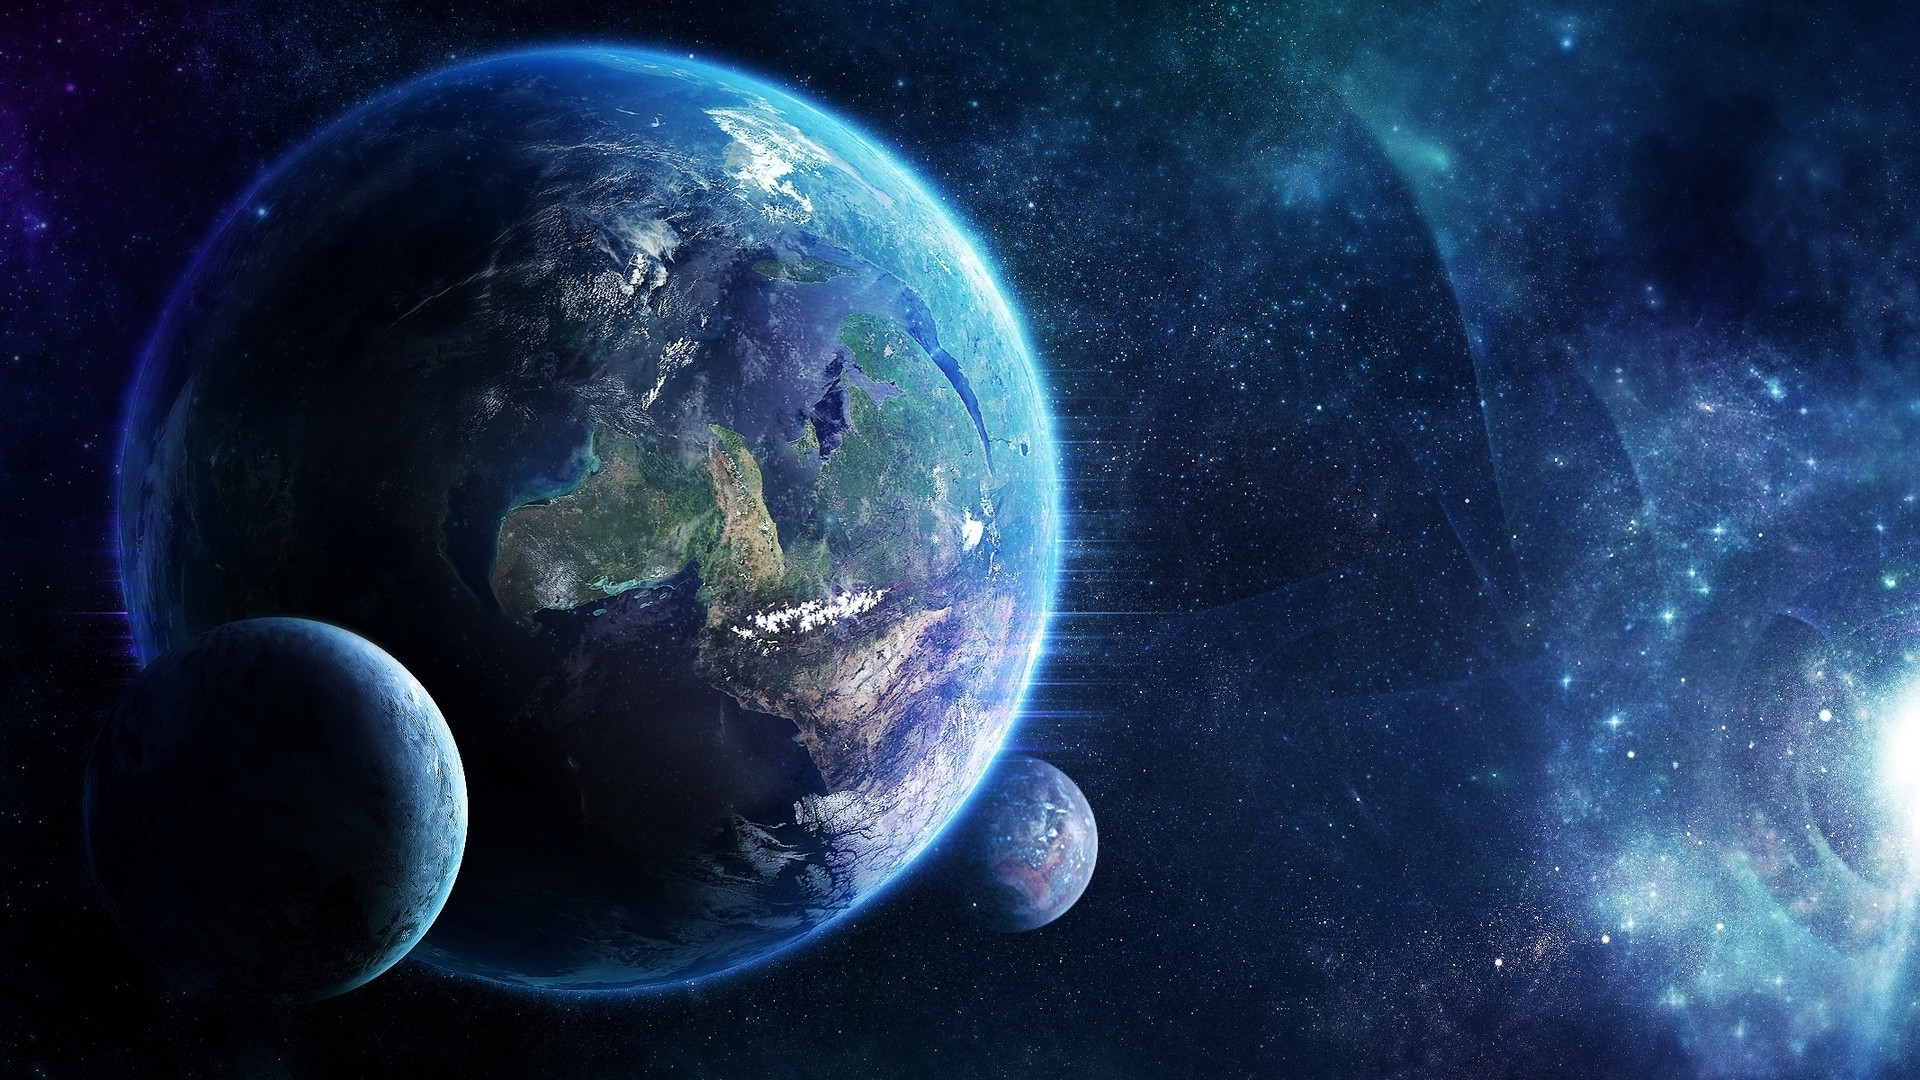
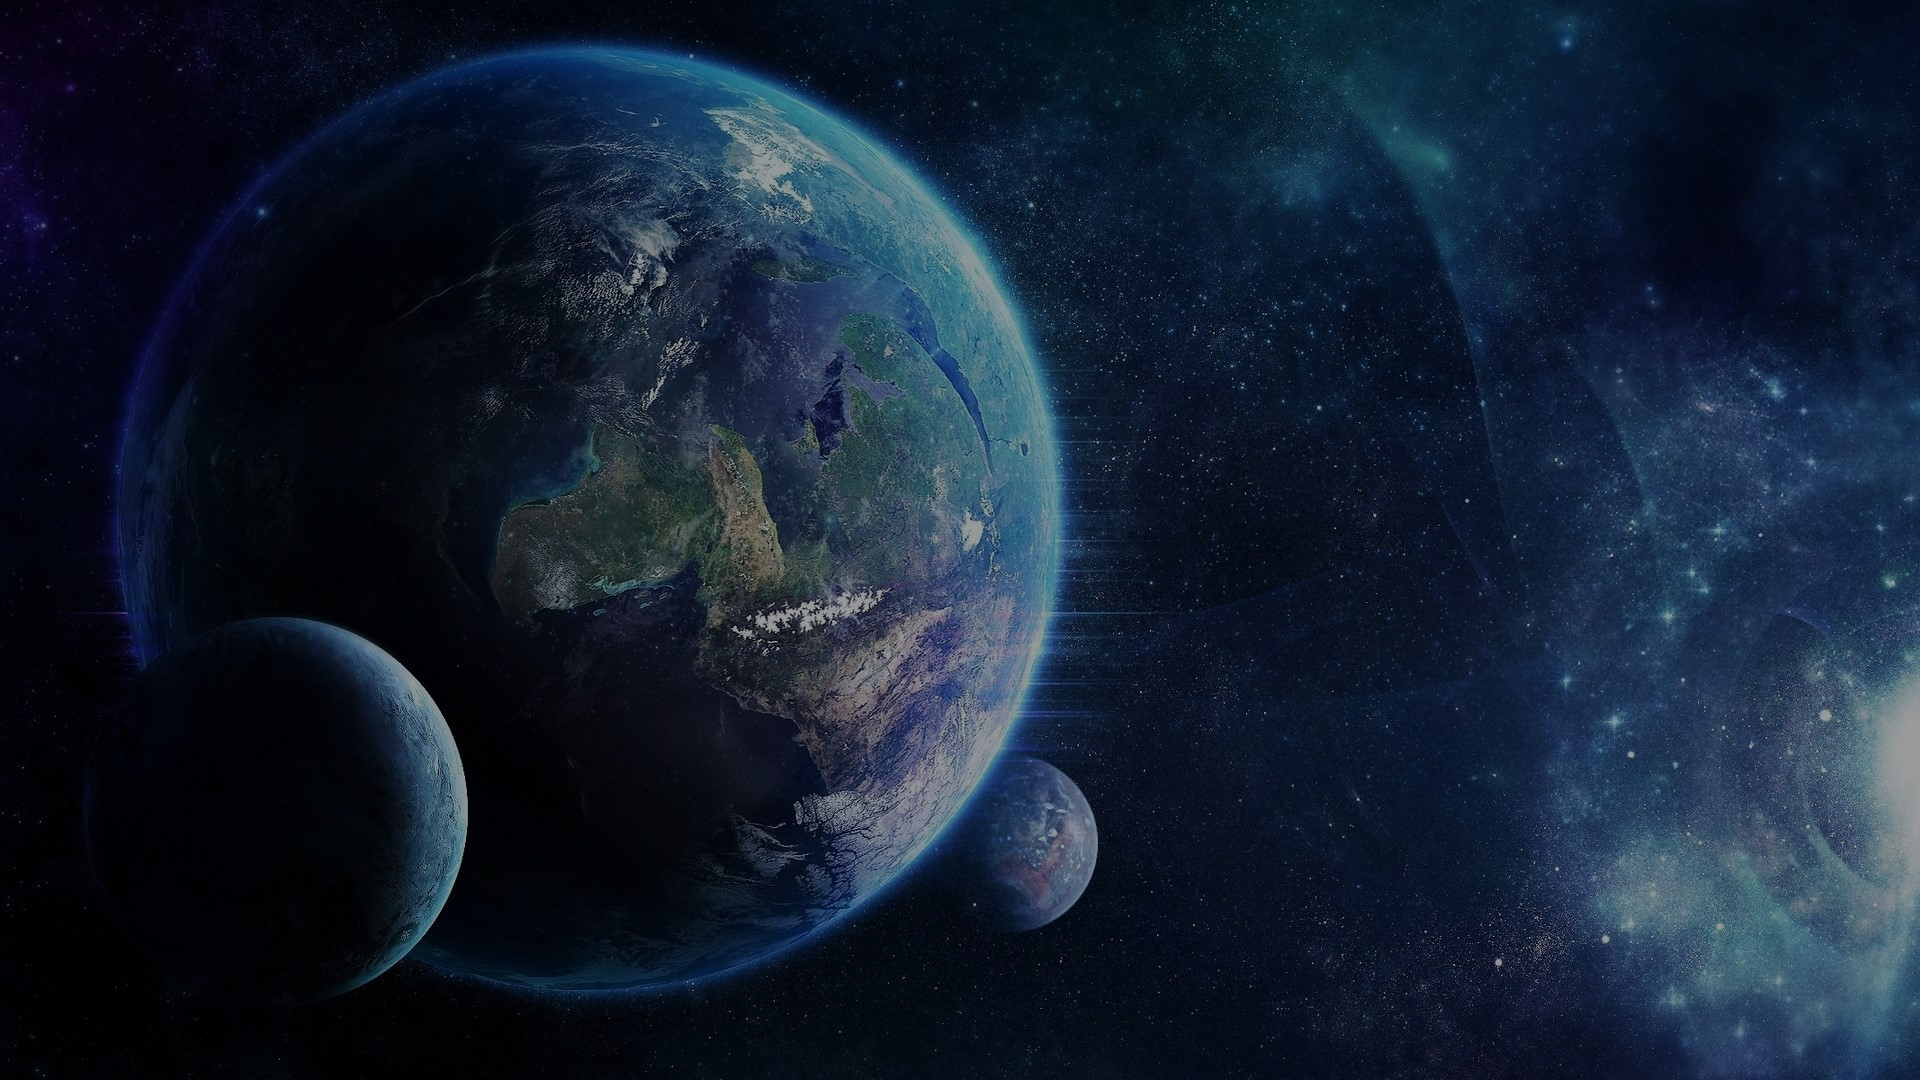
create image of footer

diff --git a/css-folder/kasper.css b/css-folder/kasper.css
@@ -1453,3 +1453,22 @@ form .inputs-and-text{
 }
 
 /* end contact us*/
+
+/* start footer*/
+
+.footer{
+
+    background-image: url(../images-folder/subscribe.jpg);
+
+}
+
+.footer .container{
+
+    display: flex;
+    flex-direction: column;
+    justify-content: center;
+    gap:20px;
+
+}
+
+/* end footer*/

diff --git a/index.html b/index.html
@@ -577,5 +577,13 @@
       </div>
     </div>
     <!--end contact-us-->
+
+    <!--start footer-->
+    <div class="footer">
+      <div class="container">
+        
+      </div>
+    </div>
+    <!--end footer-->
   </body>
 </html>
